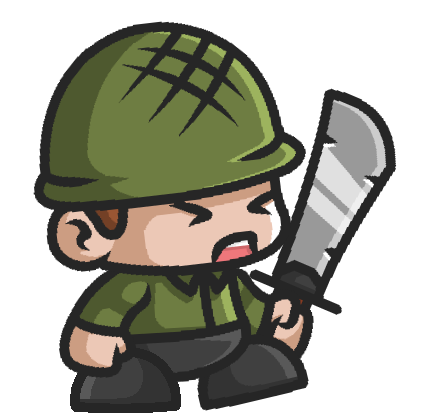
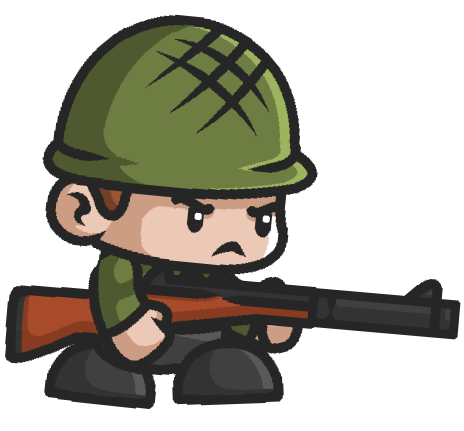
update motion

diff --git a/person.py b/person.py
@@ -6,8 +6,17 @@ characterXpos = 0
 characterYpos = 0
 
 # 캐릭터
-character = pygame.transform.scale(pygame.image.load("src/character.png"), (50, 50))
-characterSize = character.get_rect().size  # img크기 불러옴
+character = [pygame.transform.scale(pygame.image.load("src/character0.png"), (50, 50)),
+             pygame.transform.scale(pygame.image.load("src/character1.png"), (50, 50)),
+             pygame.transform.scale(pygame.image.load("src/character2.png"), (50, 50)),
+             pygame.transform.scale(pygame.image.load("src/character3.png"), (50, 50)),
+             pygame.transform.scale(pygame.image.load("src/character4.png"), (50, 50)),
+             pygame.transform.scale(pygame.image.load("src/character5.png"), (50, 50)),
+             pygame.transform.scale(pygame.image.load("src/character6.png"), (50, 50)),
+             pygame.transform.scale(pygame.image.load("src/character7.png"), (50, 50)),
+             pygame.transform.scale(pygame.image.load("src/character8.png"), (50, 50)),
+             pygame.transform.scale(pygame.image.load("src/character9.png"), (50, 50))]
+characterSize = character[0].get_rect().size  # img크기 불러옴
 characterWidth = characterSize[0]
 characterHeight = characterSize[1]
 
@@ -26,9 +35,15 @@ toY = 0
 # 이동속도
 characterSpeed = 10
 
+f = 0
+moveIndex = 0
+
+direct = 0
+
 
 def moveX(x):
-    global toX
+    global toX, direct
+    direct = x
     toX += (x * characterSpeed)
 
 
@@ -42,7 +57,7 @@ def getPos():
 
 
 def run(screen):
-    global SCREEN_WIDTH, SCREEN_HEIGHT, characterXpos, characterYpos, toX, toY
+    global SCREEN_WIDTH, SCREEN_HEIGHT, characterXpos, characterYpos, toX, toY, f, moveIndex, direct
     # 캐릭터 이동 & 프레임맞추기
     characterXpos += toX
     characterYpos += toY
@@ -59,4 +74,11 @@ def run(screen):
     elif characterYpos > SCREEN_HEIGHT - characterHeight:
         characterYpos = SCREEN_HEIGHT - characterHeight
 
-    screen.blit(character, (characterXpos, characterYpos))
+    f += 1
+
+    if f % 2 == 0:
+        moveIndex += 1
+    if direct == 1:
+        screen.blit(character[moveIndex % 10], (characterXpos, characterYpos))
+    else:
+        screen.blit(pygame.transform.flip(character[moveIndex % 10], True, False), (characterXpos, characterYpos))

diff --git a/Method.py b/Method.py
@@ -28,26 +28,29 @@ poSpeed = 10
 totalTime = 10
 startTicks = pygame.time.get_ticks()
 
-heartfont = pygame.font.SysFont("arial", 30, True, True)
-heart3 = heartfont.render("♥ ♥ ♥", True, (0, 0, 0))
-heart2 = heartfont.render("  ♥ ♥", True, (0, 0, 0))
-heart1 = heartfont.render("    ♥", True, (0, 0, 0))
+font = pygame.font.SysFont("arial", 30, True, True)
+heart3 = font.render("♥ ♥ ♥", True, (0, 0, 0))
+heart2 = font.render("  ♥ ♥", True, (0, 0, 0))
+heart1 = font.render("    ♥", True, (0, 0, 0))
 
 
 def runGame():
     run = True
 
-    Gaming = True  # 시작 버튼을 눌렀을 경우
+    Gaming = 1  # 시작 버튼을 눌렀을 경우
     heart = 3  # 시작 버튼을 눌렀을 경우
+    score = 0
+    cnt = 0
 
     while run:
         screen.fill((255, 255, 255))
-        dt = clock.tick(20)
+        dt = clock.tick(30)
 
         for event in pygame.event.get():
             if event.type == pygame.QUIT:
                 run = False
-            if Gaming:
+            # game 실행 start -------------------
+            if Gaming == 1:
                 if event.type == pygame.KEYDOWN:
                     if event.key == pygame.K_LEFT:
                         person.moveX(-1)
@@ -62,7 +65,7 @@ def runGame():
                         person.toX = 0
                     elif event.key == pygame.K_UP or event.key == pygame.K_DOWN:
                         person.toY = 0
-        if Gaming:
+        if Gaming == 1:
             person.run(screen)
             bomb.run(screen)
             pp = person.getPos()
@@ -82,6 +85,15 @@ def runGame():
                 screen.blit(heart2, (500, 0))
             elif heart == 1:
                 screen.blit(heart1, (500, 0))
+
+            cnt += 1
+            if cnt % 10 == 0:
+                score += 1
+            if cnt % 100 == 0:
+                bomb.addBomb()
+                print("addBomb")
+            screen.blit(font.render(str(score), True, (0, 0, 0)), (50, 0))
+        # 게임 실행 End -------------------------
 
         pygame.display.update()
 

diff --git a/bomb.py b/bomb.py
@@ -20,7 +20,7 @@ def transformImage(image, scale, rotate):  # 이미지 변화 함수
 
 def createBomb(width, height):
     posX = random.randint(0, width)  # 떨어질 X좌표
-    posY = random.randint(30, height - 200)  # 떨어질 Y좌표
+    posY = random.randint(30, height)  # 떨어질 Y좌표
     rect = pygame.Rect(bomb_image.get_rect())
     rect.top = posY - 200  # 200 위부터 시작
     rect.left = posX
@@ -32,6 +32,10 @@ def createBomb(width, height):
     scale = (0, 0)
     rotate = 0
     return {'rect': rect, 'x': posX, 'y': posY, 'scale': scale, 'speed': speed, 'shadow': shadow, 'rotate': rotate}
+
+
+def addBomb():
+    bombs.append(createBomb(SCREEN_WIDTH, SCREEN_HEIGHT))
 
 
 def bomb_MoveEffect(bomb):

diff --git a/util.py b/util.py
@@ -1,0 +1,1 @@
+import pygame
